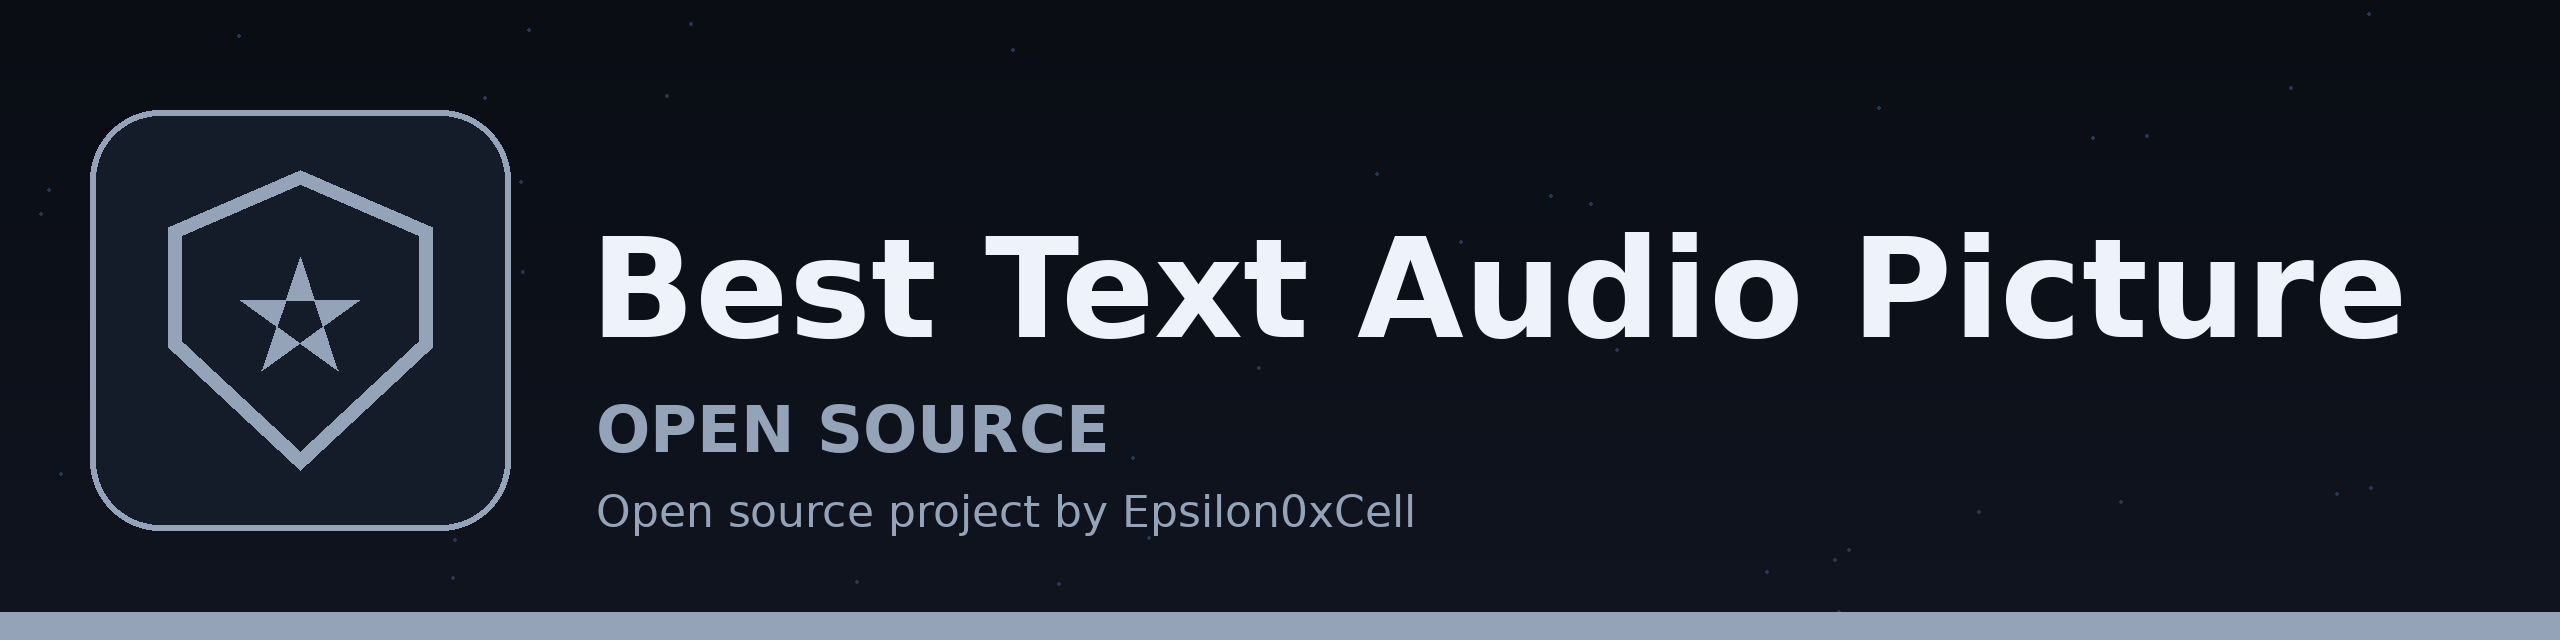
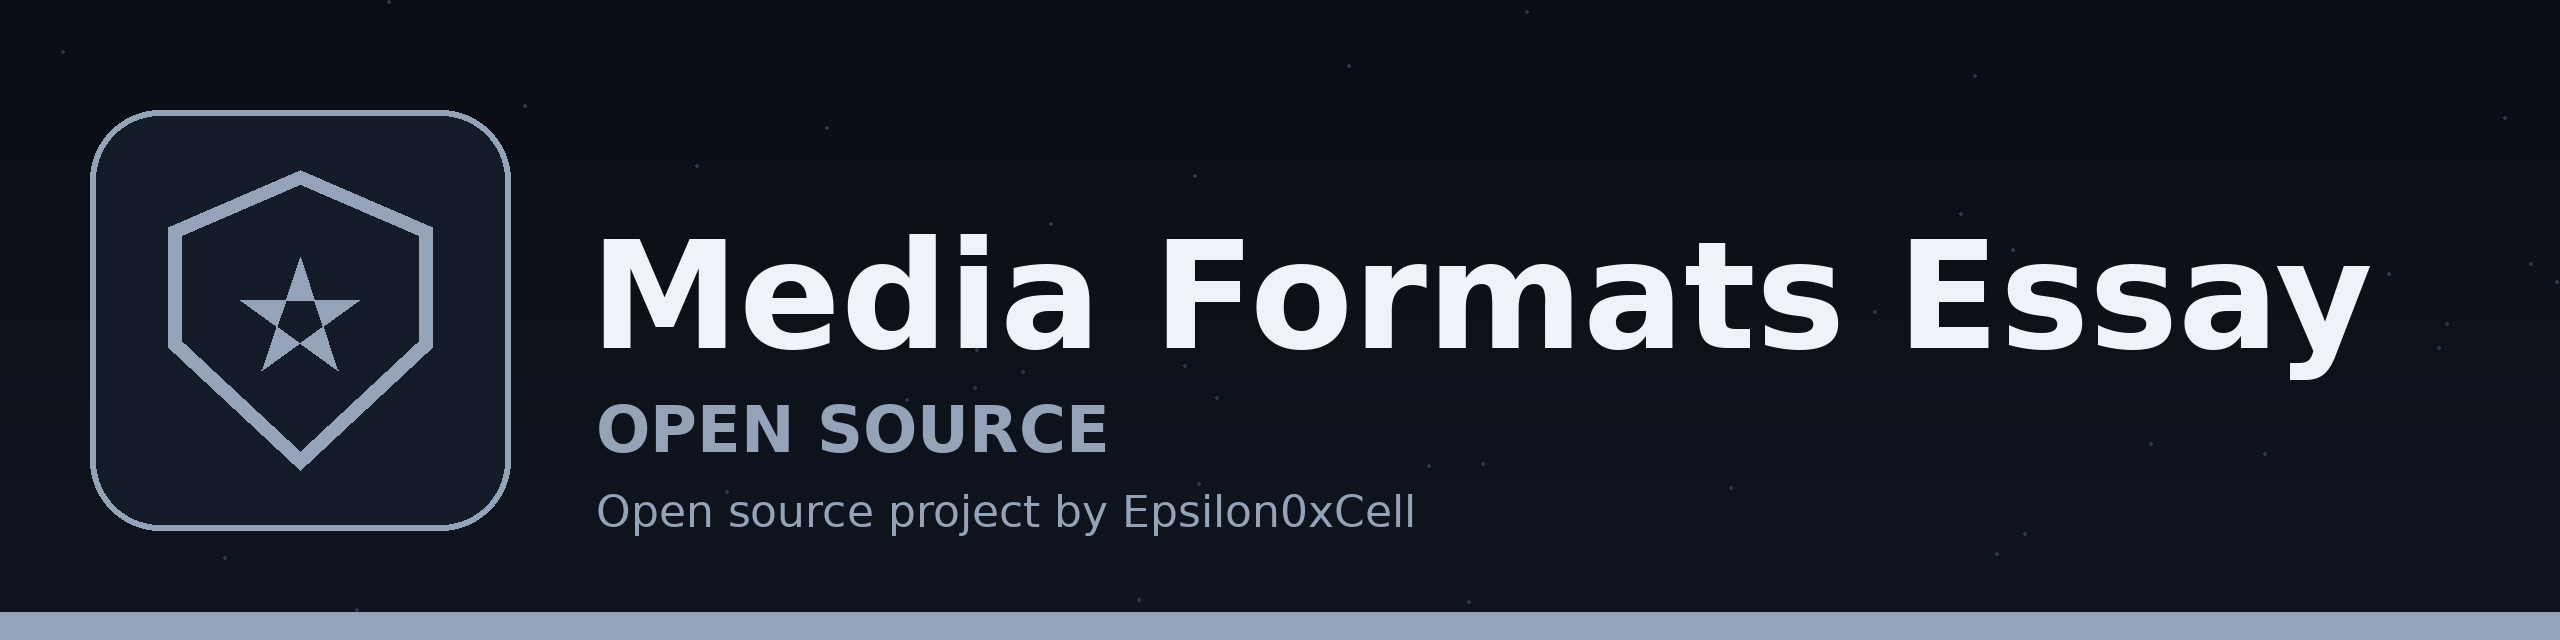
Update name to Media-Formats-Essay: README title and branding

Changed region(s): [[0.2188, 0.3438, 0.9375, 0.5938]]

diff --git a/README.md b/README.md
@@ -1,6 +1,6 @@
 ![Banner](banner.png)
 
-# Best-Text-Audio-Picture
+# Media-Formats-Essay
 Why Text, Audio and Pictures are the best forms of media?
 
 
